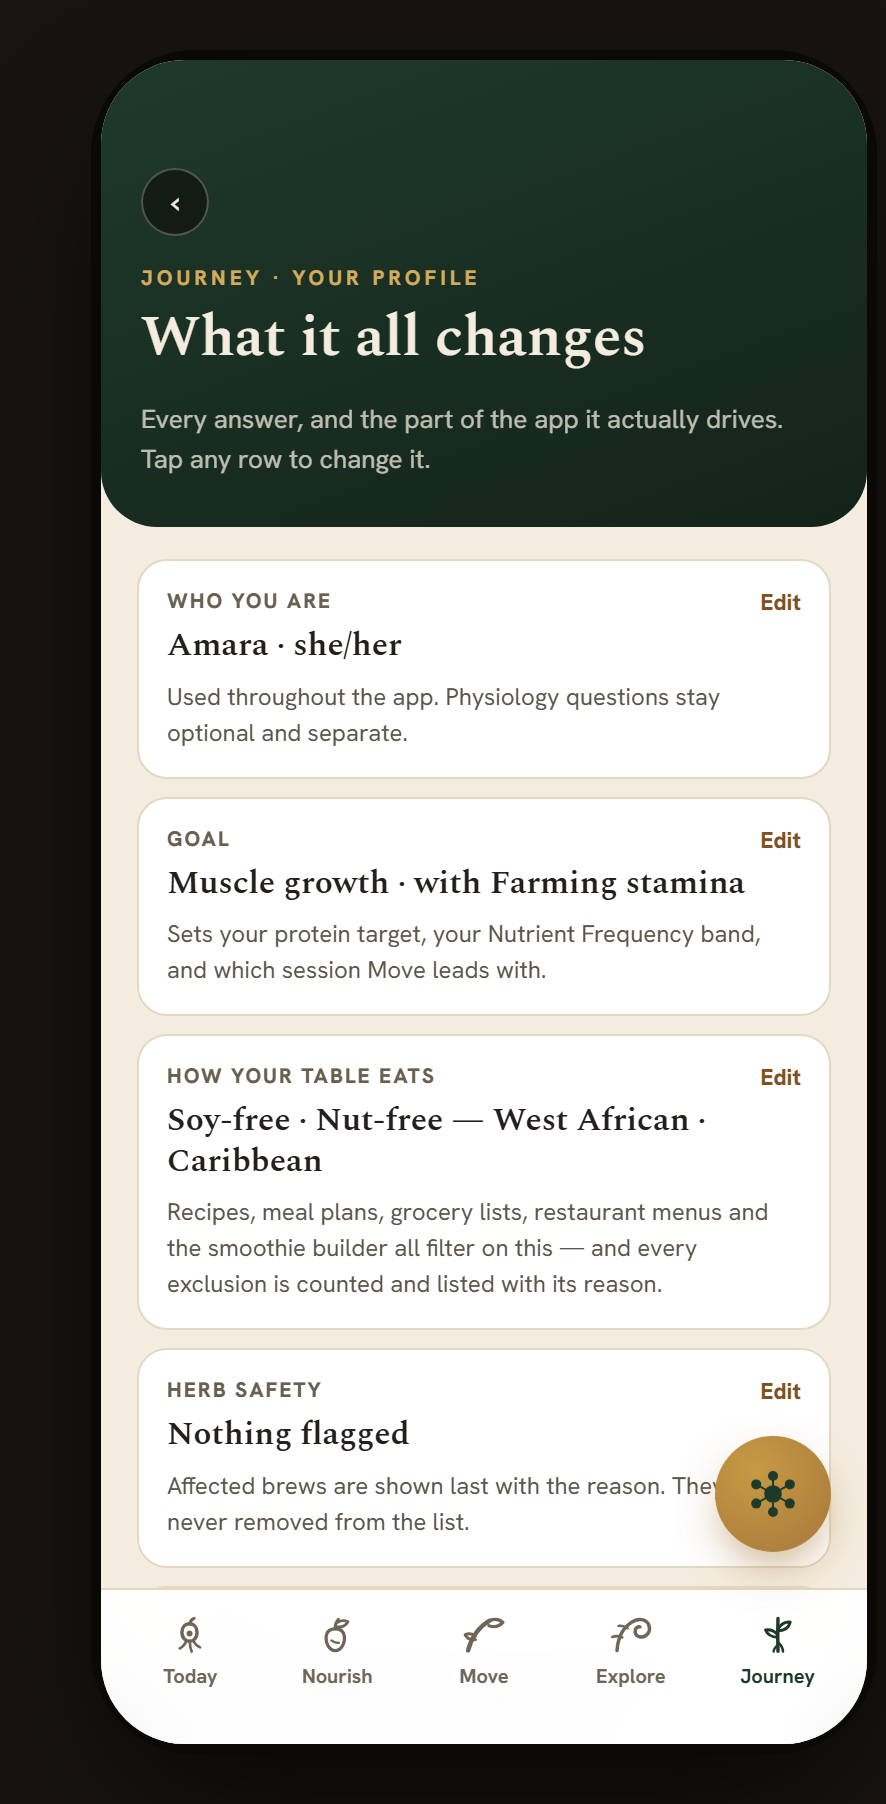
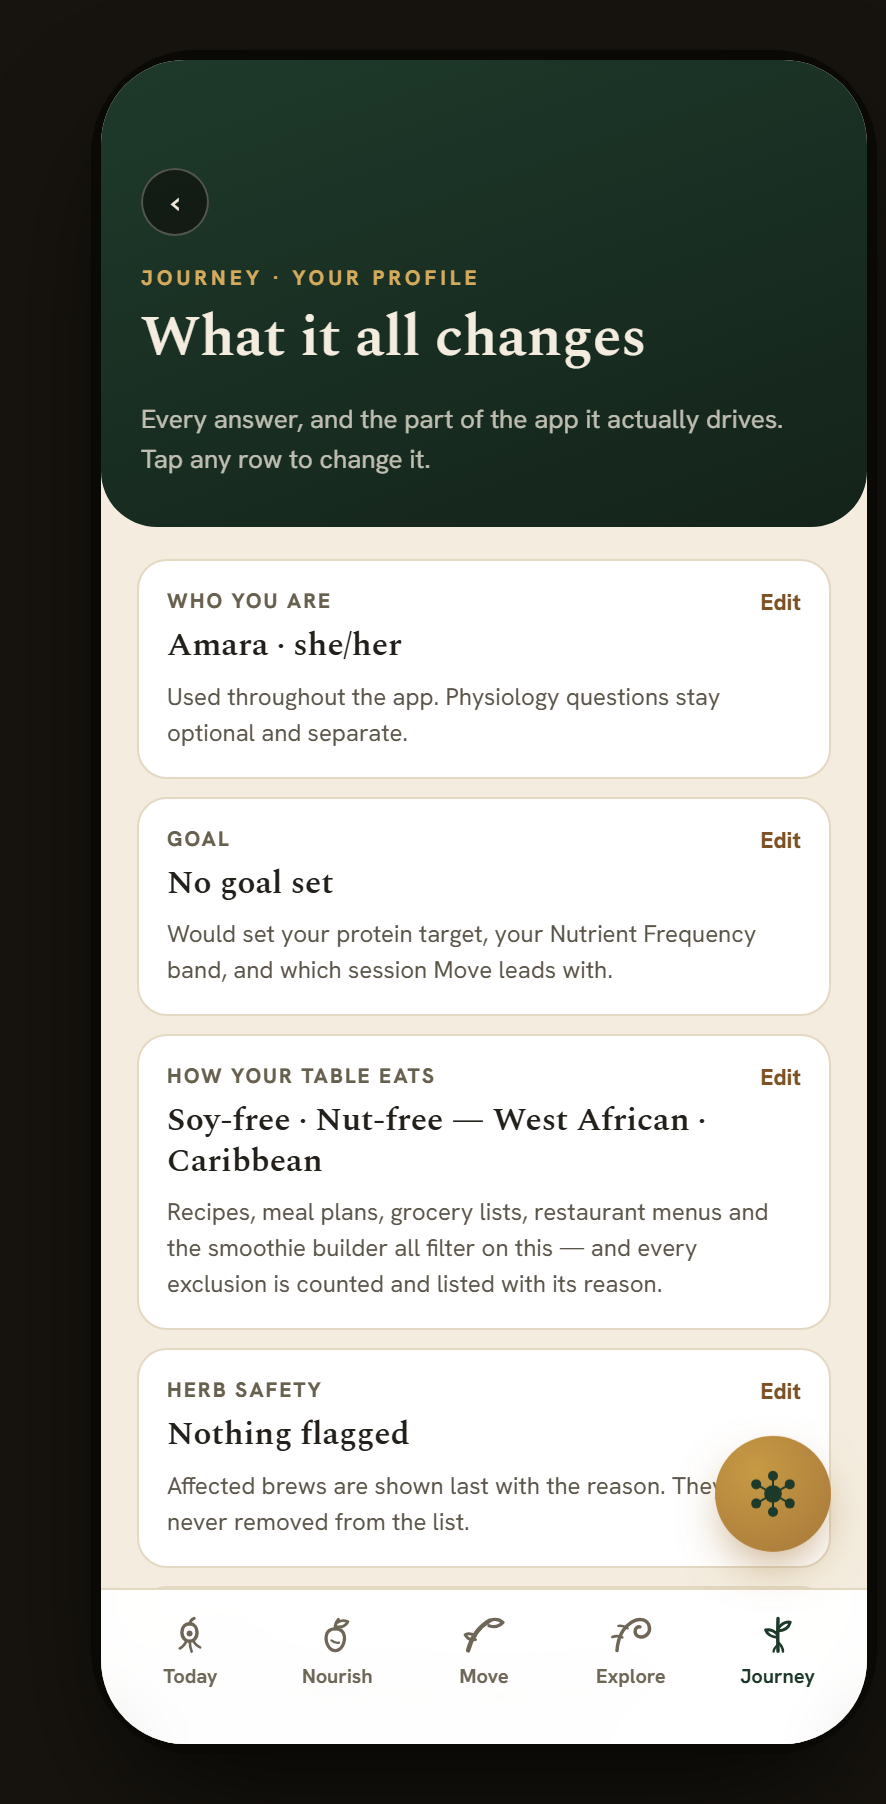
Stop claiming a goal the user never chose
"Skip for now - explore first" jumps from the welcome screen straight to
Today without running the goal handler, leaving the seeded demo default
in place. Six surfaces then described that default as the user's own
answer: the frequencies screen ("Your goal - Muscle growth"), the Move
hub ("Built for Muscle growth", plus an unpicked secondary focus), tea
intelligence, Today's cup, the Journey hub and the profile - the last
under a heading reading "Every answer". The onboarding recap did it too:
skip the goal question and it still reported a goal.

State now records whether a goal was actually chosen. obGoalSet is false
in the seed and set true in exactly one place - pickPrimary in ob2, the
only code path where a person picks one. Skip does not go through it.

The distinction is between computing and claiming. obGoal stays a
computation default, so Move still has a session to offer and the protein
target still has a value; nothing is empty. But nothing calls that
default the user's answer. Each surface now states what it is doing and
offers the goal question instead.

freqBand reverts to 'grounding', the neutral opening band. The previous
commit set it to 'building' to match the seeded goal, which was right
while that goal was treated as real; with the goal correctly marked
unchosen, neutral is the honest value. The invariant
freqBand === goalFreqMap[obGoal] still holds from the moment ob2 records
a choice.
[…]

Changed region(s): [[0.1828, 0.4656, 0.8533, 0.5588]]

diff --git a/app/src/screens/Onboarding.tsx b/app/src/screens/Onboarding.tsx
@@ -267,6 +267,8 @@ export function Ob2Screen() {
     obGoal: id,
     obGoal2: s.obGoal2 === id ? null : s.obGoal2,
     freqBand: (goalFreqMap as any)[id] || 'grounding',
+    /* This is the only place a goal becomes the user's own. */
+    obGoalSet: true,
   }));
 
   return (
@@ -282,18 +284,22 @@ export function Ob2Screen() {
         ))}
       </div>
 
-      <div style={{
-        display: 'flex', gap: 10, alignItems: 'center', marginTop: 14,
-        background: 'var(--surface-1)', border: '1px solid var(--border)',
-        borderRadius: 14, padding: '12px 13px',
-      }}>
-        <div aria-hidden="true" style={{
-          width: 10, height: 10, borderRadius: '50%', flex: 'none', background: band.c || 'var(--ochre)',
-        }} />
-        <div style={{ fontSize: 'calc(12.5px * var(--scale))', color: 'var(--ink-muted)', lineHeight: 1.45 }}>
-          Tunes your Nutrient Frequency to <b style={{ color: 'var(--ink)' }}>{band.name}</b> · {band.state}
+      {/* Only preview the band once a goal has actually been picked — otherwise
+          this announces a tuning derived from a default the user never chose. */}
+      {state.obGoalSet && (
+        <div style={{
+          display: 'flex', gap: 10, alignItems: 'center', marginTop: 14,
+          background: 'var(--surface-1)', border: '1px solid var(--border)',
+          borderRadius: 14, padding: '12px 13px',
+        }}>
+          <div aria-hidden="true" style={{
+            width: 10, height: 10, borderRadius: '50%', flex: 'none', background: band.c || 'var(--ochre)',
+          }} />
+          <div style={{ fontSize: 'calc(12.5px * var(--scale))', color: 'var(--ink-muted)', lineHeight: 1.45 }}>
+            Tunes your Nutrient Frequency to <b style={{ color: 'var(--ink)' }}>{band.name}</b> · {band.state}
+          </div>
         </div>
-      </div>
+      )}
 
       <div style={{ marginTop: 20 }}>
         <FieldLabel>
@@ -556,8 +562,12 @@ export function ObRecapScreen() {
     },
     {
       to: 'ob2', label: 'What you are building toward',
-      value: goalLabel(state.obGoal) + (state.obGoal2 ? ' · with ' + goalLabel(state.obGoal2) : ''),
-      effect: 'Sets your protein target and tunes your Nutrient Frequency to ' + band.name + '.',
+      value: state.obGoalSet
+        ? goalLabel(state.obGoal) + (state.obGoal2 ? ' · with ' + goalLabel(state.obGoal2) : '')
+        : 'No goal set',
+      effect: state.obGoalSet
+        ? 'Sets your protein target and tunes your Nutrient Frequency to ' + band.name + '.'
+        : 'Would set your protein target and tune your Nutrient Frequency.',
     },
     {
       to: 'ob3', label: 'How your table eats',

diff --git a/app/src/screens/Explore.tsx b/app/src/screens/Explore.tsx
@@ -684,9 +684,10 @@ export function MineralsScreen() {
 /* ===================== frequencies ===================== */
 
 export function FrequenciesScreen() {
-  const { state, set, goBack } = useStore();
+  const { state, set, go, goBack } = useStore();
   const bands = freqBandDefs as any[];
-  const goalBand = (goalFreqMap as any)[state.obGoal] || 'grounding';
+  /* With no goal chosen, the neutral opening band — not the default goal's. */
+  const goalBand = state.obGoalSet ? ((goalFreqMap as any)[state.obGoal] || 'grounding') : 'grounding';
   const sel = bands.find((b) => b.id === (state.freqBand || goalBand)) ?? bands[0];
   const goalLabel = (obGoals as any[]).find((g) => g.id === state.obGoal)?.label || '';
 
@@ -706,8 +707,26 @@ export function FrequenciesScreen() {
           fontSize: 'calc(12px * var(--scale))', fontWeight: 700,
           color: 'var(--ink-meta)', marginBottom: 12,
         }}>
-          Your goal — {goalLabel} — tunes you to{' '}
-          <b style={{ color: 'var(--ink)' }}>{bands.find((b) => b.id === goalBand)?.name}</b>.
+          {state.obGoalSet ? (
+            <>
+              Your goal — {goalLabel} — tunes you to{' '}
+              <b style={{ color: 'var(--ink)' }}>{bands.find((b) => b.id === goalBand)?.name}</b>.
+            </>
+          ) : (
+            <>
+              No goal set — starting from{' '}
+              <b style={{ color: 'var(--ink)' }}>{bands.find((b) => b.id === goalBand)?.name}</b>.{' '}
+              <button
+                type="button"
+                onClick={() => { set({ profileReturn: 'frequencies' }); go('ob2'); }}
+                style={{
+                  border: 'none', background: 'none', padding: 0, cursor: 'pointer',
+                  font: 'inherit', color: 'var(--teal)', fontWeight: 800,
+                  textDecoration: 'underline', minHeight: 44,
+                }}
+              >Set a goal</button>{' '}to tune it.
+            </>
+          )}
         </div>
 
         <div className="rs-scroll" style={{ display: 'flex', gap: 8, overflowX: 'auto', paddingBottom: 4 }}>

diff --git a/app/src/data/initialState.ts b/app/src/data/initialState.ts
@@ -69,8 +69,16 @@ export const initialState: any = {
       return out;
     })(),
     obPronoun: 'she/her',
+    /*
+      obGoal / obGoal2 are COMPUTATION DEFAULTS, not the user's answer. They
+      decide which session Move offers and where the protein target starts, so
+      the app works before onboarding. Nothing may describe them as "your goal"
+      until ob2 records a real choice and sets obGoalSet — which "Skip for now
+      — explore first" deliberately does not do.
+    */
     obGoal: 'muscle',
     obGoal2: 'farm',
+    obGoalSet: false,
     obRestr: { soyfree: true, nutfree: true },
     obTrad: { caribbean: true, gullah: false, westafrican: true, creole: false, indigenous: false },
     consent: { health: true, photos: false, location: true, research: false },
@@ -128,14 +136,12 @@ export const initialState: any = {
     teaSafety: { pregnant: false, bp: false, thinners: false },
     savedBrews: { 'Blue vervain': true },
     /*
-      Must agree with goalFreqMap[obGoal] — obGoal is 'muscle', which tunes to
-      'building'. The prototype seeds 'grounding' here, a pairing its own
-      onboarding cannot produce (picking a goal writes
-      `freqBand: goalFreqMap[g.id]`). Reachable via "Skip for now", which jumps
-      to Today with the seed intact: the frequencies screen then read "your goal
-      — Muscle growth — tunes you to Building" with Grounding selected.
+      'grounding' is the neutral opening band, which is the correct value while
+      no goal has been chosen. Once ob2 records a choice it writes the band from
+      goalFreqMap, so from that point the invariant is
+      freqBand === goalFreqMap[obGoal].
     */
-    freqBand: 'building',
+    freqBand: 'grounding',
     warriorId: 'zulu',
     coconutUse: 'kitchen',
     honeyUse: 'fuel',

diff --git a/app/src/screens/Move.tsx b/app/src/screens/Move.tsx
@@ -97,7 +97,7 @@ export function MoveScreen() {
             <span style={{
               flex: 1, minWidth: 0, fontSize: 'calc(12.5px * var(--scale))',
               fontWeight: 700, color: 'var(--ink)',
-            }}>Built for {stats.goalLabel}</span>
+            }}>{stats.goalSet ? 'Built for ' + stats.goalLabel : 'No goal set — showing the default session'}</span>
             <button
               type="button"
               onClick={() => { set({ profileReturn: 'move' }); go('ob2'); }}
@@ -107,7 +107,7 @@ export function MoveScreen() {
               }}
             >Adjust</button>
           </div>
-          {stats.goal2Label && (
+          {stats.goalSet && stats.goal2Label && (
             <div style={{
               fontSize: 'calc(11.5px * var(--scale))', color: 'var(--ink-muted)',
               marginTop: 2, lineHeight: 1.45,
@@ -124,7 +124,7 @@ export function MoveScreen() {
               borderRadius: 12, padding: '11px 12px', minHeight: 44,
               fontSize: 'calc(12.5px * var(--scale))', fontWeight: 700, color: 'var(--teal)',
             }}
-          >Start the matching session — {stats.goalSessionLabel} →</button>
+          >{stats.goalSet ? 'Start the matching session' : 'Start a session'} — {stats.goalSessionLabel} →</button>
           <div role="status" style={{
             fontSize: 'calc(11.5px * var(--scale))', color: 'var(--ink-meta)',
             fontWeight: 700, marginTop: 9,

diff --git a/app/src/screens/Apothecary.tsx b/app/src/screens/Apothecary.tsx
@@ -192,16 +192,25 @@ export function TeaIntelScreen() {
       </DarkHeader>
 
       <Gutter style={{ paddingTop: 16 }}>
+        {/*
+          With no goal recorded there is nothing to tune to, so the button leads
+          to the goal question instead of silently applying a default's brew.
+        */}
         <button
           type="button"
-          onClick={() => set({ teaGoal: (goalTeaMap as any)[state.obGoal] || 'recovery' })}
+          onClick={() => {
+            if (state.obGoalSet) set({ teaGoal: (goalTeaMap as any)[state.obGoal] || 'recovery' });
+            else { set({ profileReturn: 'teaIntel' }); go('ob2'); }
+          }}
           style={{
             width: '100%', textAlign: 'left', cursor: 'pointer',
             background: 'var(--surface-1)', border: '1px solid var(--border)',
             borderRadius: 14, padding: '11px 13px', minHeight: 44,
             fontSize: 'calc(12.5px * var(--scale))', fontWeight: 700, color: 'var(--teal)',
           }}
-        >For your goal, start with {suggested} →</button>
+        >{state.obGoalSet
+            ? 'For your goal, start with ' + suggested + ' →'
+            : 'Set a goal and this tunes itself →'}</button>
 
         <div className="rs-scroll" style={{
           display: 'flex', gap: 8, overflowX: 'auto', paddingBottom: 4, marginTop: 12,

diff --git a/app/src/screens/Journey.tsx b/app/src/screens/Journey.tsx
@@ -74,7 +74,7 @@ export function JourneyScreen() {
           />
           <Row
             title="Your profile"
-            sub={goal + ' · ' + restrCount + ' restrictions · what it all changes →'}
+            sub={(state.obGoalSet ? goal : 'No goal set') + ' · ' + restrCount + ' restrictions · what it all changes →'}
             onClick={() => go('profile')}
           />
           <Row title="Sleep" sub="Stages, trends &amp; wind-down →" onClick={() => go('sleep')} />
@@ -515,8 +515,10 @@ export function ProfileScreen() {
     },
     {
       to: 'ob2', label: 'Goal',
-      value: goal + (goal2 ? ' · with ' + goal2 : ''),
-      effect: 'Sets your protein target, your Nutrient Frequency band, and which session Move leads with.',
+      value: state.obGoalSet ? goal + (goal2 ? ' · with ' + goal2 : '') : 'No goal set',
+      effect: state.obGoalSet
+        ? 'Sets your protein target, your Nutrient Frequency band, and which session Move leads with.'
+        : 'Would set your protein target, your Nutrient Frequency band, and which session Move leads with.',
     },
     {
       to: 'ob3', label: 'How your table eats',

diff --git a/app/src/screens/Today.tsx b/app/src/screens/Today.tsx
@@ -225,8 +225,10 @@ export function TodayScreen() {
             <StripeCard
               stripe="var(--plum)"
               eyebrow="Tonight's cup"
-              title={(goalTeaLabel as any)[state.obGoal] || teaGroup.name}
-              sub={teaGroup.sub || 'Brewed by goal, with every safety flag shown rather than hidden.'}
+              title={(state.obGoalSet && (goalTeaLabel as any)[state.obGoal]) || teaGroup.name}
+              sub={teaGroup.sub || (state.obGoalSet
+                ? 'Brewed by goal, with every safety flag shown rather than hidden.'
+                : 'Every safety flag shown rather than hidden.')}
               onClick={() => go('teaIntel')}
             />
           )}

diff --git a/app/src/state/move.ts b/app/src/state/move.ts
@@ -54,6 +54,12 @@ export function useMoveStats() {
   return {
     moved,
     movedWeekLabel: moved + ' of the last 7 days moved',
+    /*
+      goalRoute and goalSessionLabel below fall back to a default so Move always
+      has something to offer. goalSet says whether that default is the user's
+      actual answer — only it may be described as "your goal".
+    */
+    goalSet: !!state.obGoalSet,
     goalLabel,
     goal2Label,
     /* Which session screen the current goal points at. */

diff --git a/app/docs/DISCREPANCIES.md b/app/docs/DISCREPANCIES.md
@@ -211,13 +211,7 @@ onboarding — it changes only when the user presses "For your goal, start with
 …". Seed and goal disagreeing there is a state a real user can be in, so it is
 left alone.
 
-### Left for the owner to decide
-
-On the skip path the app addresses the user as though they had chosen a goal —
-"Your goal — Muscle growth" — when they explicitly declined to answer. The
-seeded `obGoal` is the prototype's demo default, and it feeds the Move hub, the
-tea suggestion and Today as well, so changing it is a product decision rather
-than a bug fix. Flagged rather than changed.
+### The wider problem behind it — **now fixed, see §13**
 
 ---
 
@@ -259,6 +253,49 @@ prototype's — was brought into line with it.
 
 Code comments keep British spelling; they are not user-visible.
 
+---
+
+## 13. The app claimed a goal the user never chose — **fixed**
+
+§10 fixed the contradiction on one screen. The cause was wider: the seeded
+`obGoal` is a demo default, and six surfaces described it as the user's own
+answer. Take "Skip for now — explore first" and the app tells you things you
+never told it:
+
+| screen | said |
+|---|---|
+| Nutrient frequencies | "**Your goal** — Muscle growth — tunes you to Building." |
+| Move hub | "**Built for** Muscle growth", plus a secondary focus you never picked |
+| Tea intelligence | "**For your goal**, start with Training recovery" |
+| Today | tonight's cup titled by that goal, "Brewed **by goal**" |
+| Journey hub | the goal echoed back as part of your profile |
+| Profile | "Goal: Muscle growth" — under a heading reading *Every answer* |
+
+The onboarding recap had it too: skip the goal question and the recap still
+reported a goal.
+
+### The fix
+
+State now records whether a goal was actually chosen. `obGoalSet` is `false` in
+the seed and set `true` in exactly one place — `pickPrimary` in ob2, the only
+code path where a person picks one. "Skip for now" does not go through it.
+
+The distinction that matters is between **computing** and **claiming**:
+
+- `obGoal` stays a computation default, so Move still has a session to offer,
+  the protein target still has a value, and nothing is empty or broken.
+- Nothing describes that default as the user's answer. Each surface now says
+  what it is doing and offers the goal question: "No goal set — starting from
+  Grounding. **Set a goal** to tune it."
+
+`freqBand` reverts to `'grounding'`, the neutral opening band. §10 set it to
+`'building'` to match the seeded goal, which was right while that goal was
+treated as real; with the goal correctly marked unchosen, the neutral band is
+the honest value. The invariant `freqBand === goalFreqMap[obGoal]` still holds
+from the moment ob2 records a choice.
+
+Verified both ways: with no goal set every surface says so, and with a goal
+recorded the original personalised copy returns unchanged.
 ---
 
 ## Not a discrepancy, but carried forward

diff --git a/app/docs/screens.md b/app/docs/screens.md
@@ -18,7 +18,7 @@ decorative counter.
 
 | Move | Farm-Strength | Exercise |
 |---|---|---|
-| ![The Move hub, led by the goal set in onboarding](media/move/move.png) | ![Farm-Strength: Push & Carry, with farm actions mapped to movement patterns](media/move/farm.png) | ![The shovel-lift hinge, with beginner, standard and seated variants](media/move/exercise.png) |
+| ![The Move hub — with no goal set it offers the default session and says so](media/move/move.png) | ![Farm-Strength: Push & Carry, with farm actions mapped to movement patterns](media/move/farm.png) | ![The shovel-lift hinge, with beginner, standard and seated variants](media/move/exercise.png) |
 
 `exercise` carries three variants, and the seated one is a first-class version of
 the movement rather than a consolation.
@@ -168,7 +168,7 @@ off — "No safety filters on — every brew is shown" is shown, not implied.
 
 | Nutrient frequencies | Restaurants | An order |
 |---|---|---|
-| ![Four bands, matched to how the day feels — tuned by your goal](media/explore/frequencies.png) | ![Places worth eating at](media/explore/restaurant.png) | ![A menu, filtered against your profile, with what to ask before ordering](media/explore/order.png) |
+| ![Four bands — tuned by your goal once one is set, neutral until then](media/explore/frequencies.png) | ![Places worth eating at](media/explore/restaurant.png) | ![A menu, filtered against your profile, with what to ask before ordering](media/explore/order.png) |
 
 `order` does not silently hide what does not fit: it counts the dishes that do,
 flags the one that does not, and gives you the questions to ask.
